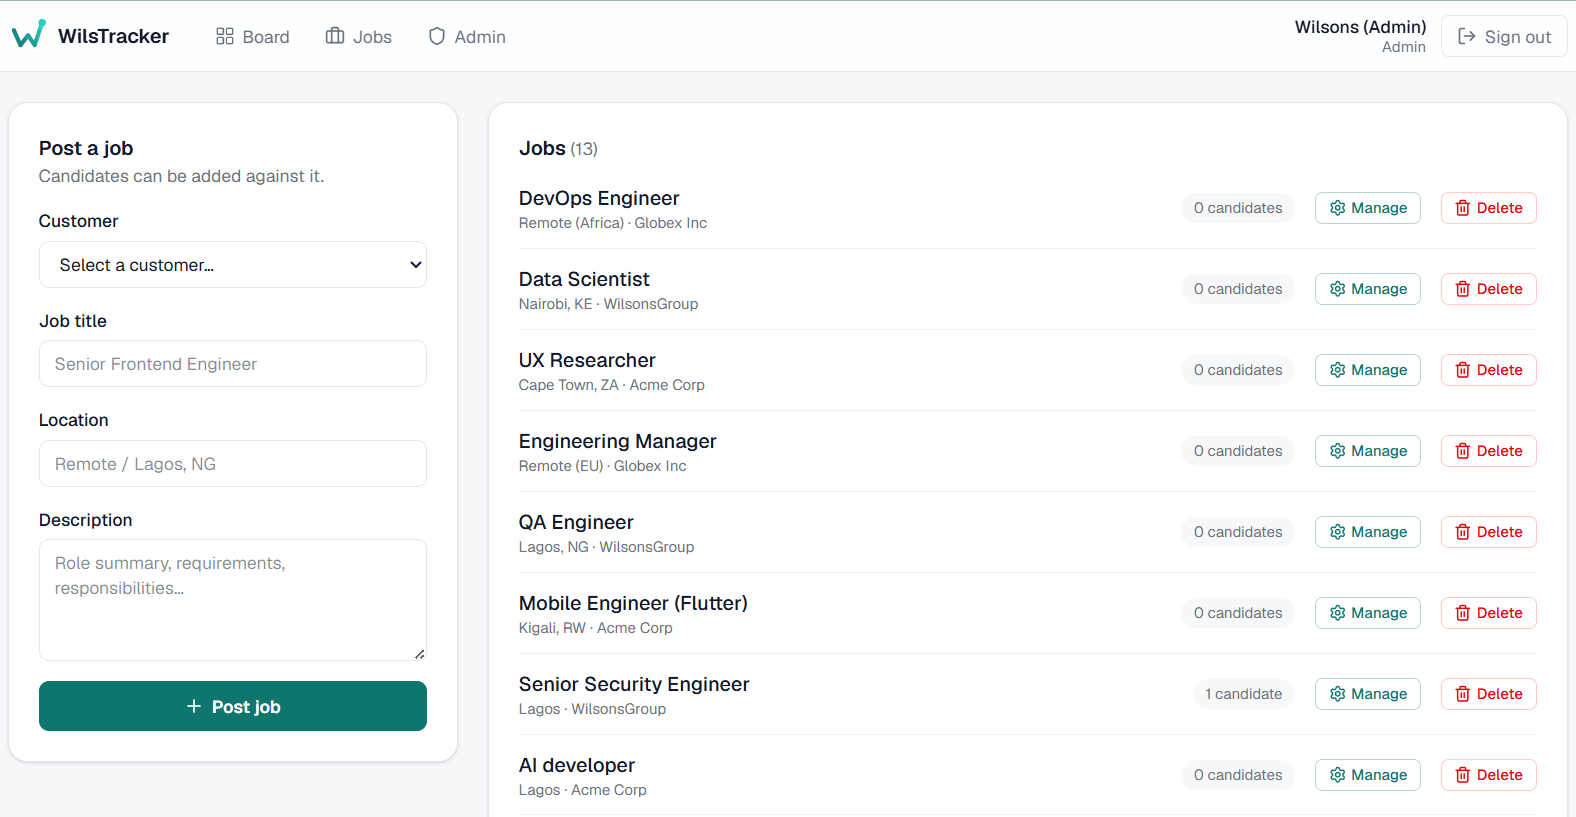
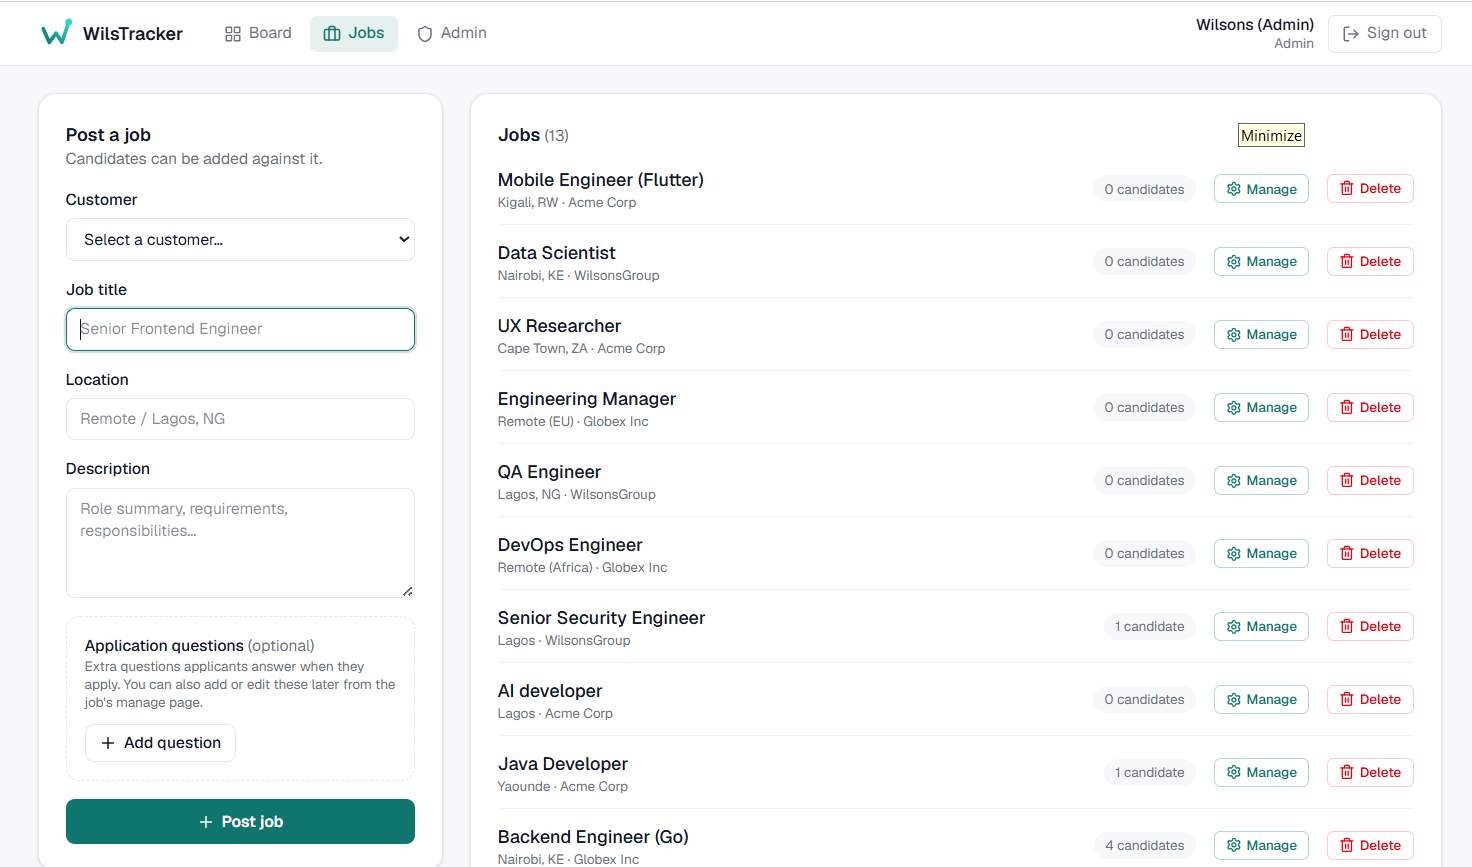
Update README screenshots and copy

diff --git a/README.md b/README.md
@@ -24,11 +24,6 @@ Live: [wilstracker.vercel.app](https://wilstracker.vercel.app)
   <img src="docs/board.png" alt="WilsTracker recruiter pipeline board" width="900" />
 </p>
 
-It was built as a one-week coding test, with the goal of getting a first
-customer live quickly on a clean, well-documented codebase, then extended with a
-full candidate experience, richer recruiter tools, and a layout that works just
-as well on a phone.
-
 ## Table of contents
 
 1. [What we're building](#what-were-building)
@@ -66,7 +61,7 @@ apply to roles and follow their own applications.
 
 Where the project started:
 
-- Admins provision every recruiter and admin login. There is no public sign-up for them.
+- Admins create every recruiter and admin login. There is no public sign-up for them.
 - Recruiters sign in to their own workspace.
 - They post the roles they are hiring for.
 - They add candidates by hand and capture the essentials, such as a name, an email, and a LinkedIn link.